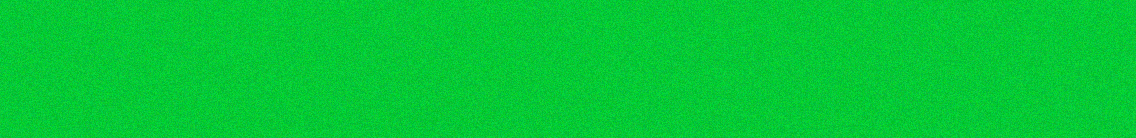
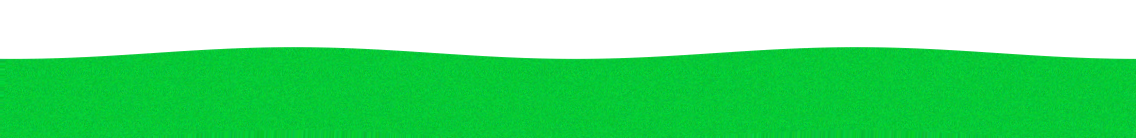
changed midground

diff --git a/js/game/states/Game.js b/js/game/states/Game.js
@@ -16,14 +16,15 @@ Runner.Game.prototype = {
 
         this.spawnPositionX = this.game.width + 64;
 
-        //Mittelgrund und Hintergrund
-        this.midground = this.game.add.tileSprite(0, 470, this.game.width, this.game.height - 85, 'midground');
-        this.midground.autoScroll(-100,0);
-
+        //Hintergrund
         this.background = this.game.add.tileSprite(0,0,this.game.width, 512, 'background');
         this.background.autoScroll(-100,0);
 
-        //Boden
+        //Mittelgrund
+        this.midground = this.game.add.tileSprite(0, 420, this.game.width, this.game.height - 85, 'midground');
+        this.midground.autoScroll(-150,0);
+
+        //Vordergrund
         this.ground = this.game.add.tileSprite(0,this.game.height - 73, this.game.width, 73, 'ground');
         this.ground.autoScroll(-200,0);
 
@@ -45,7 +46,7 @@ Runner.Game.prototype = {
         this.game.physics.arcade.enableBody(this.player);
         this.player.body.collideWorldBounds = true;
 
-        //Erzeugungs-Loops
+        //Loops zum Erzeugen von Items und Hindernissen
         this.itemGenerator = this.game.time.events.loop(Phaser.Timer.SECOND, this.generateItems, this);
         this.itemGenerator.timer.start();
 
@@ -99,8 +100,9 @@ Runner.Game.prototype = {
 
     createItem: function(x, y) {
         x = x || this.spawnPositionX;
-        y = y || this.game.rnd.integerInRange(this.game.world.height - this.ground.height, this.game.world.height - 192);
+        y = y || this.game.rnd.integerInRange(this.game.world.height - 120, this.game.world.height - 192);
 
+        //Items recyclen
         var item = this.items.getFirstExists(false);
         if (!item) {
             item = new Item(this.game, 0, 0, 'burger');
@@ -119,6 +121,7 @@ Runner.Game.prototype = {
         x = x || this.spawnPositionX;
         y = y || this.game.world.height - 90;
 
+        //Obstacles recyclen
         var obstacle = this.obstacles.getFirstExists(false);
         if (!obstacle) {
             obstacle = new Obstacle(this.game, 0, 0, 'box');
@@ -130,7 +133,7 @@ Runner.Game.prototype = {
     },
 
     createObstacleGroup: function(columns, rows) {
-       
+
     },
 
     render: function() {
